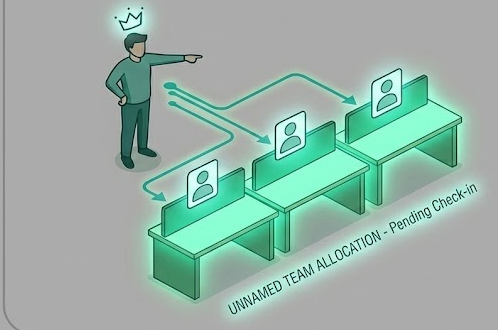
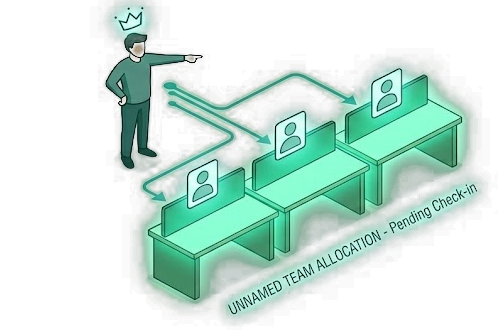
Swap grey background for white on the two new page-01 illustrations
assets/images/reservation-type-team-leader.png and
reservation-type-booked-on-behalf.png: replaced the flat grey card
background with white to match this page's other three illustrations.

Reprocessed with a Python/PIL script that blends any pixel close to
neutral grey (low chroma, R approx G approx B) at a mid-to-high luminance
to white, while leaving the teal/mint artwork colors (strong chroma) and
dark outline strokes (outside the luminance band) untouched. Verified by
inspecting the resulting pixel palette and zooming into several edges for
halo artifacts before overwriting the files. Same filenames, so no markup
changes were needed.

Verified via an HTML tag-balance check and a weasyprint+pdf2image render
of the full page showing both cards now blending into the white card
background.

diff --git a/pages/floorsense-reservation-types-01.html b/pages/floorsense-reservation-types-01.html
@@ -529,6 +529,8 @@ MOST RECENT CHANGE: Per a request that each product's logo only appear on its ow
 MOST RECENT CHANGE: Per a request to bring "Team Leader Allocated" and "Booked on Behalf" back, removed the `hidden` attribute added to both `.desk-check-card` divs during an earlier "temporarily hide until asked to bring them back" request. Pure display change — their markup, icons, and the generic checkbox-wiring loop were untouched the whole time, so nothing else needed changing. Both cards are visible again, in their original 3rd/4th position between "Reserved by User as Needed" and "AI Agent Auto-Prebooked."
 
 MOST RECENT CHANGE: Illustrated the newly-unhidden "Team Leader Allocated" and "Booked on Behalf" cards with a user-supplied combined reference image (one scene per option, each captioned above its artwork). Split into two crops — assets/images/reservation-type-team-leader.png and reservation-type-booked-on-behalf.png — with the caption text cropped out via a pixel-darkness scan (to avoid duplicating the card's own <h3>, matching the convention used for this page's other three illustrations). Both `<svg class="desk-icon-img">` were replaced with `<img class="desk-thumb-tall">`. Unlike the other three crops (a consistent ~2.2:1 landscape), these two came out portrait-ish (~1.3-1.5:1) with content running edge-to-edge (no more to trim), so rather than force them into the existing width:210px `.desk-thumb` and distort or over-crop them, a new `.desk-thumb-tall { height: 120px; width: auto; }` sizes them by height instead — the same approach used for `floorsense-checkin-methods-02.html`'s inconsistent portrait crops. `.desk-icon-img` had zero remaining usages after this change (these were the last two cards still using it) and was removed.
+
+MOST RECENT CHANGE: Per a request to swap the two new crops' grey card background for white (matching this page's other three illustrations), reprocessed both assets/images/reservation-type-team-leader.png and reservation-type-booked-on-behalf.png with a Python/PIL script: any pixel close to neutral grey (low chroma, i.e. R≈G≈B) at a mid-to-high luminance was blended to white, while the teal/mint artwork colors (which have strong chroma) and dark outline strokes (which fall outside the luminance band) were left untouched — verified by inspecting the resulting pixel colors and zooming into several edges for halo artifacts before overwriting the files. Same filenames, so no markup changes were needed.
 -->
 
 <script>

diff --git a/README.md b/README.md
@@ -128,6 +128,8 @@ Fixed the Smartalock image crop cutting into the standalone cabinet/person group
 
 The newly-unhidden "Team Leader Allocated" and "Booked on Behalf" cards on `floorsense-reservation-types-01.html` were then illustrated too, from a combined user-supplied reference image (one scene per option, captioned above its artwork). Split into `assets/images/reservation-type-team-leader.png` and `reservation-type-booked-on-behalf.png`, with the caption text cropped out via a pixel-darkness scan so it doesn't duplicate the card's own `<h3>`. Both cards' `<svg class="desk-icon-img">` were replaced with `<img class="desk-thumb-tall">`. Unlike this page's other three crops (a consistent ~2.2:1 landscape), these two came out portrait-ish (~1.3-1.5:1) with content running edge-to-edge, so a new `.desk-thumb-tall { height: 120px; width: auto; }` sizes them by height instead of forcing them into the existing width-based `.desk-thumb` and distorting or over-cropping them — the same approach already used for `floorsense-checkin-methods-02.html`'s inconsistent portrait crops. `.desk-icon-img` was removed once these were its last two users.
 
+Per a follow-up request, swapped the "Team Leader Allocated"/"Booked on Behalf" crops' grey card background for white to match this page's other three illustrations. Reprocessed both PNGs with a Python/PIL script: any pixel close to neutral grey (low chroma, i.e. R≈G≈B) at a mid-to-high luminance was blended to white, while the teal/mint artwork colors and dark outline strokes were left untouched. Same filenames, so no markup changes were needed.
+
 A site-wide pass made every Floorsense page's content icons the same big 56x56px bare size as `floorsense-reservation-types-01.html`'s `.desk-icon-img` (no circular badge, accent-coloured stroke directly on the svg), and reviewed each one for whether it actually matched its card or section's purpose. Sizes fixed: `floorsense-setup-path-00.html`'s `.complete-card-icon` (48px badge), `floorsense-business-hours-05.html`/`floorsense-checkin-window-08.html`/`floorsense-idle-release-09.html`'s `.checkin-card-icon` (48px badge) and `.checkin-footer-icon` (40px wrapper), `floorsense-optional-features-06.html`'s `.feature-row-icon` (44px badge) and `.feature-footer-icon` (40px wrapper), `floorsense-default-reservation-times-07.html`'s `.path-icon-img` (locally redefined to 38px, out of step with the 56px used by that same class name on nsnp-11/fme-12/anti-desk-hogging-13), and `floorsense-out-of-box-policy.html`'s `.download-card-icon` (40px badge) and `.summary-icon` (32px, shrunk further to 23px in `.compact` mode — that shrink was removed, matching the page's existing text-doesn't-shrink convention). The `.summary-icon` change required restructuring each summary-group's heading markup, since a 56px icon no longer fit inline before the heading text — icon and `<h3>` now sit side by side in a new `.summary-group-heading` wrapper.
 
 Several icons were also redesigned because they didn't clearly represent their feature: NSNP's padlock (security, not power) became a power-button glyph; Follow Me Ergonomics' ambiguous umbrella/lamp shape became the same up-arrow-on-a-pole glyph used for sit-stand height elsewhere; Anti Desk Hogging's calendar-with-checkmark (duplicating the generic "booking" glyph) became a circular repeat-arrow with a slash through it, on both the Optional Features hub and its own page's "enable" option; Auto-Release on Idle's plain X/cancel icon became a clock with an arrow breaking away from it; Check-in Window's checkmark-in-circle became a clock with a highlighted wedge depicting a specific time range; the Configuration Summary's generic bar-chart icon for "Additional Options" became a sliders/toggles glyph, matching that it's just a list of on/off features; and one of the two default-reservation-times cards reused the exact same clock-with-ticks glyph as its sibling card, so it was changed to a sunset icon to distinguish "ends at close of business" from "ends after N hours." Small UI chrome (chevrons, switches, checkboxes) and status/notice glyphs sitting in small aside boxes (warning triangles, info icons, the post-submit checkmark) were deliberately left at their existing sizes — forcing those to 56px would look absurd relative to their compact context, and the request was about icons that identify a card or section's purpose, not every small indicator on the page. `floorsense-desk-user-groups-03.html` and `floorsense-reservation-length-10.html` have no content icons at all and were left as-is (not asked to add new iconography where none existed), and `floorsense-desk-booking-guide-live.html` was left untouched since it's a printable end-user guide with its own established rounded-square badge design language, not part of the interactive wizard's card visual system.
